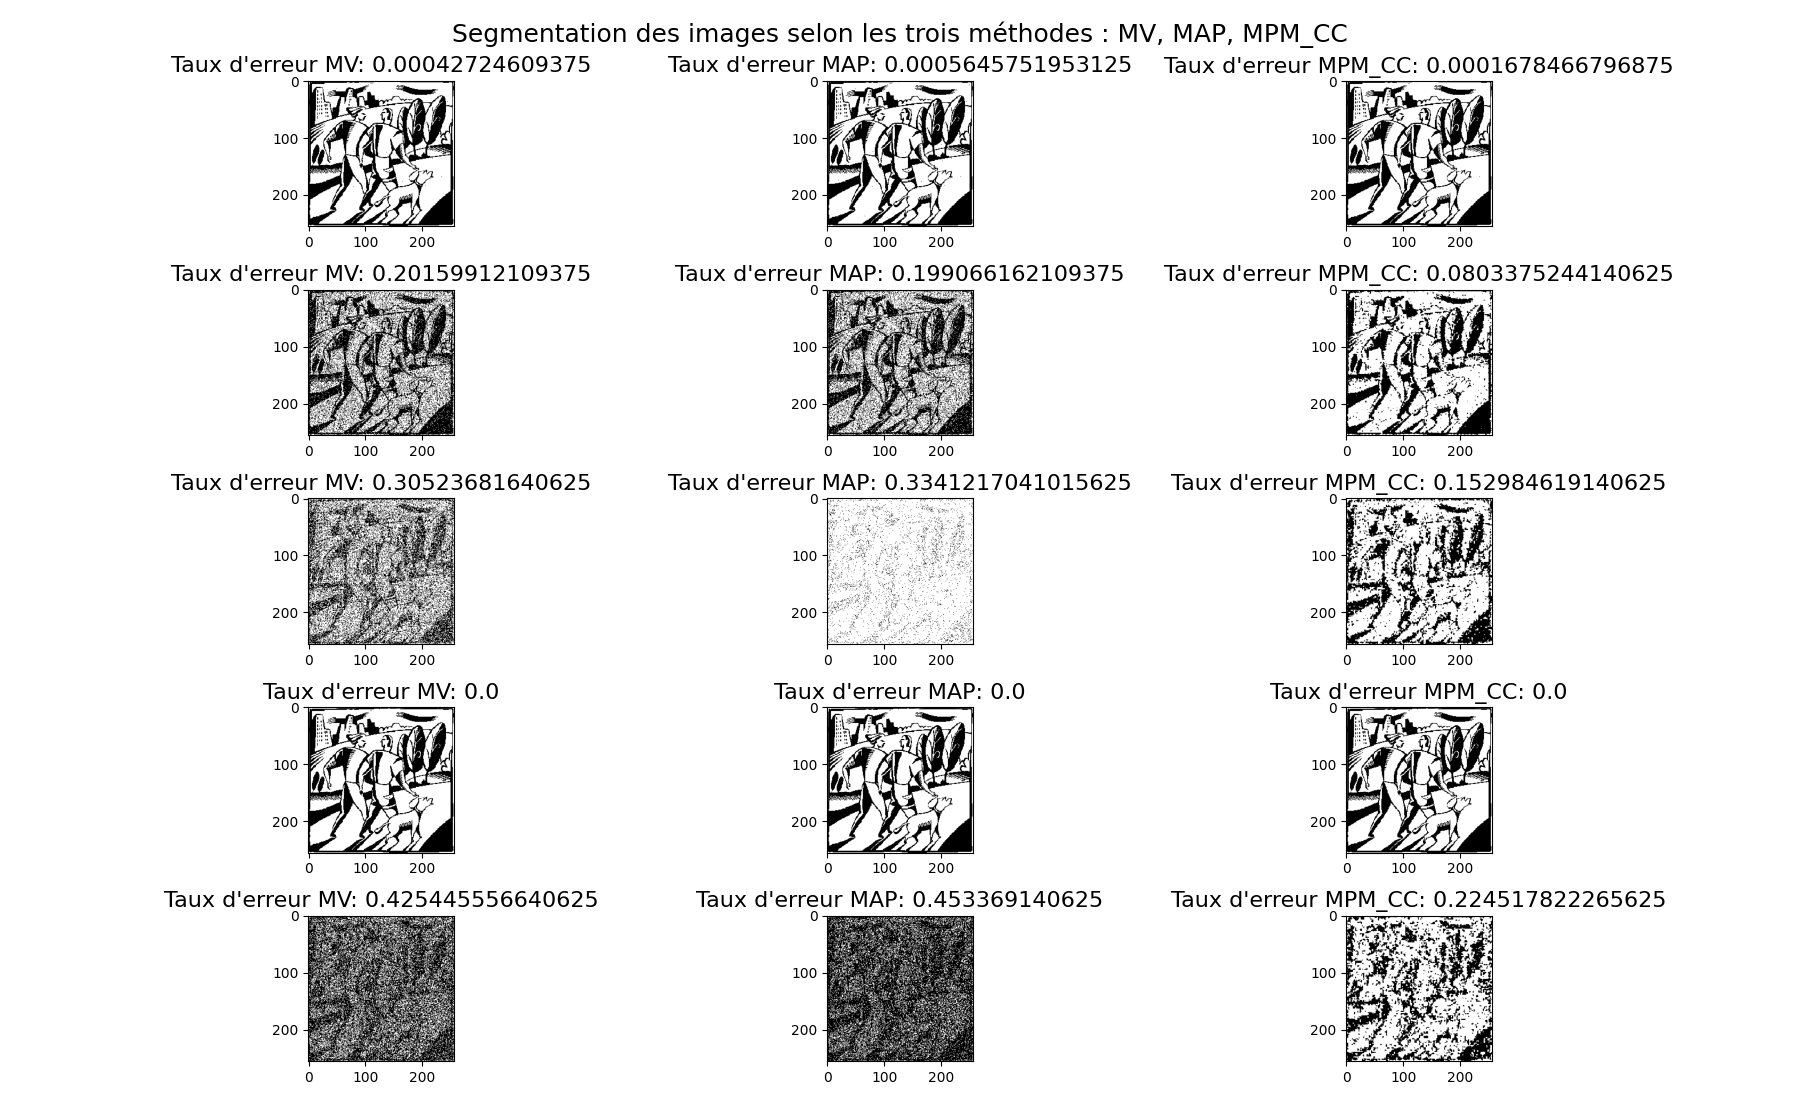
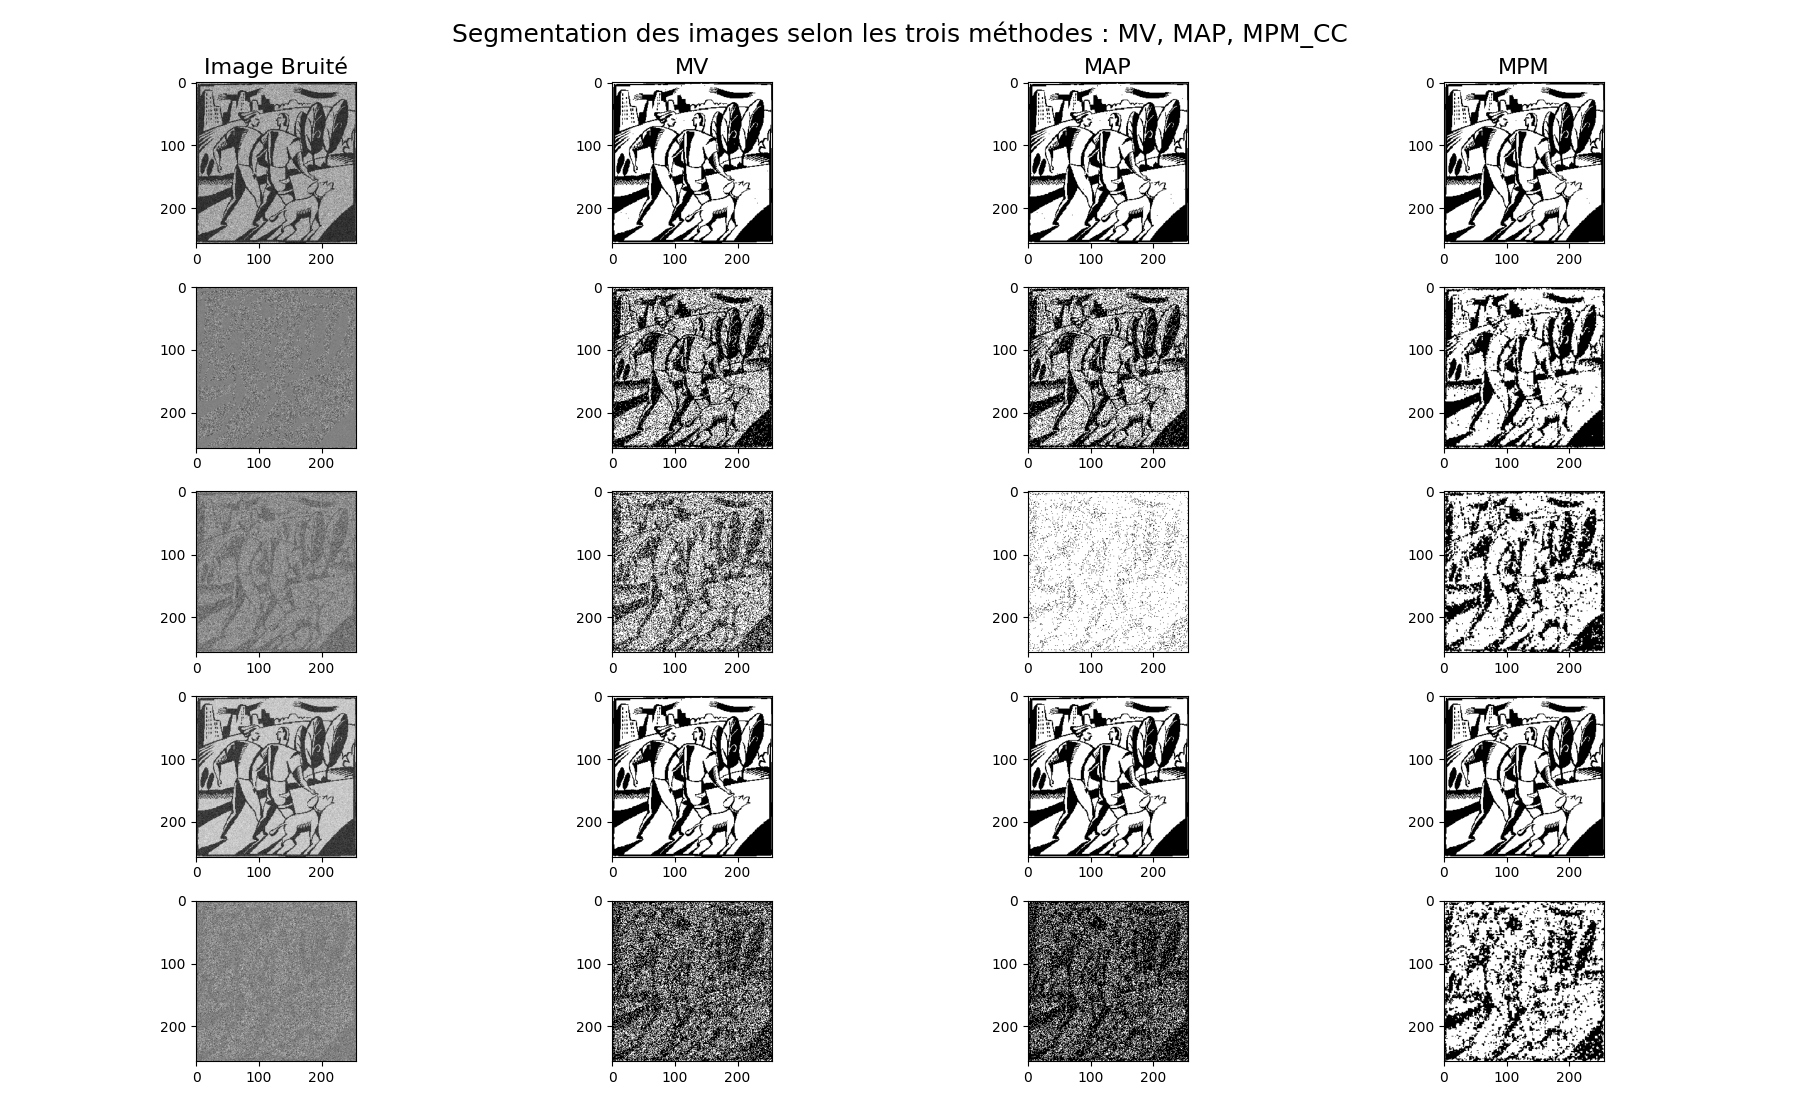
changement dans Programmes Annexes mauvaise importation

diff --git a/TP3/Partie5/Questions.py b/TP3/Partie5/Questions.py
@@ -4,24 +4,27 @@ import numpy as np
 from Programmes_Annexes.set_params import *
 from TP3.Partie5.main_functions_p5 import *
 
-names = ['beee2', 'cible2','promenade2', 'zebre2']
-path = '../../assets/images_binaires/'
+names = ['beee2', 'cible2', 'promenade2', 'zebre2']
+path = 'assets/images_binaires/'
 
 
 def display(name):
     img = plt.imread(path + name + '.bmp', )
-    mv_images, map_images, mpm_images = bruit_seg_all(img)
-    fig, axs = plt.subplots(5, 3, figsize=(18, 11))
+    noised_imgs, mv_images, map_images, mpm_images = bruit_seg_all(img)
+    fig, axs = plt.subplots(5, 4, figsize=(18, 11))
 
     fig.suptitle("Segmentation des images selon les trois méthodes : MV, MAP, MPM_CC", fontsize=18)
     for i in range(len(all_params)):
-        axs[i, 0].set_title("Taux d'erreur MV: " + str(taux_erreur(mv_images[i], image_to_chain(img))), fontsize=16)
-        axs[i, 1].set_title("Taux d'erreur MAP: " + str(taux_erreur(map_images[i], image_to_chain(img))), fontsize=16)
-        axs[i, 2].set_title("Taux d'erreur MPM_CC: " + str(taux_erreur(mpm_images[i], image_to_chain(img))), fontsize=16)
+        if i == 0:
+            axs[i, 0].set_title("Image Bruité", fontsize=16)
+            axs[i, 1].set_title("MV",  fontsize=16)
+            axs[i, 2].set_title("MAP", fontsize=16)
+            axs[i, 3].set_title("MPM", fontsize=16)
 
-        axs[i, 0].imshow(chain_to_image(mv_images[i]), cmap='gray')
-        axs[i, 1].imshow(chain_to_image(map_images[i]), cmap='gray')
-        axs[i, 2].imshow(chain_to_image(mpm_images[i]), cmap='gray')
+        axs[i, 0].imshow(chain_to_image(noised_imgs[i]), cmap='gray')
+        axs[i, 1].imshow(chain_to_image(mv_images[i]), cmap='gray')
+        axs[i, 2].imshow(chain_to_image(map_images[i]), cmap='gray')
+        axs[i, 3].imshow(chain_to_image(mpm_images[i]), cmap='gray')
 
     plt.tight_layout()
     plt.show()
@@ -41,17 +44,20 @@ def test(img): #Fonction pour tester la fonctionnalité du programme sur une ima
 
     mpm_img = chain_to_image(MPM_chaines2_with_rescaling(mat_f, params))
 
-    fig, axs = plt.subplots(1, 4, figsize=(16, 9), sharex=True, sharey=True)
+    fig, axs = plt.subplots(1, 5, figsize=(16, 9), sharex=True, sharey=True)
     fig.suptitle("Test")
 
     axs[0].imshow(chain_to_image(X_ch), cmap='gray')
-    axs[1].imshow(mv_img, cmap='gray')
-    axs[2].imshow(map_img, cmap='gray')
-    axs[3].imshow(mpm_img, cmap='gray')
+    axs[1].imshow(chain_to_image(noised_img), cmap='gray')
+    axs[2].imshow(mv_img, cmap='gray')
+    axs[3].imshow(map_img, cmap='gray')
+    axs[4].imshow(mpm_img, cmap='gray')
 
     plt.tight_layout()
     plt.show()
 
+
+#test(plt.imread("assets/images_binaires/beee2.bmp"))
 
 for name in names:
     display(name)

diff --git a/TP3/Partie5/main_functions_p5.py b/TP3/Partie5/main_functions_p5.py
@@ -20,7 +20,7 @@ def bruit_seg_all(img):
     X_ch = image_to_chain(img)
     A = calc_transit_prio2(X_ch)
 
-    noised_signals = []
+    noised_images = []
     mv_images = []
     map_images = []
     mpm_images = []
@@ -29,14 +29,14 @@ def bruit_seg_all(img):
         params = setParams(all_params[i], X_ch)
         params['A'] = A
         params['a'] = all_a[i]
-        noised_signals.append(bruit_gaussien(X_ch, params))
-        mat_f = gauss2(noised_signals[-1], params)
+        noised_images.append(bruit_gaussien(X_ch, params))
+        mat_f = gauss2(noised_images[-1], params)
 
-        mv_images.append(classif_gauss2(noised_signals[-1], params))
-        map_images.append(MAP_MPM(noised_signals[-1], params))
+        mv_images.append(classif_gauss2(noised_images[-1], params))
+        map_images.append(MAP_MPM(noised_images[-1], params))
         mpm_images.append(MPM_chaines2_with_rescaling(mat_f, params))
 
-    return mv_images, map_images, mpm_images
+    return noised_images, mv_images, map_images, mpm_images
 
 
 

diff --git a/TP2/Partie2/main_functions_p2.py b/TP2/Partie2/main_functions_p2.py
@@ -72,7 +72,7 @@ def simul2(n, params): # Question 3
 
 #Etude supplémentaire, sur la qualité de l'estimateur empirique pour A
 
-def ep_vs_cm():
+def ep_vs_cm_signal():
     result = []
     all_params = [
         [120, 130, 1, 2],
@@ -84,7 +84,7 @@ def ep_vs_cm():
 
     for i in range(6):
         if i == 0:
-            X = np.load('../../assets/signaux/signal.npy')
+            X = np.load('assets/signaux/signal.npy')
         else:
             X = np.load('assets/signaux/signal' + str(i) + '.npy')
 

diff --git a/Programmes_Annexes/chain_to_image_functions.py b/Programmes_Annexes/chain_to_image_functions.py
@@ -5,8 +5,9 @@ Uses the package https://github.com/galtay/hilbertcurve
 2020 Hugo Gangloff
 '''
 import numpy as np
-from hilbertcurve import HilbertCurve
+from Programmes_Annexes.hilbertcurve import HilbertCurve
 import matplotlib.pyplot as plt
+
 
 def get_hilbertcurve_path(image_border_length):
     '''
